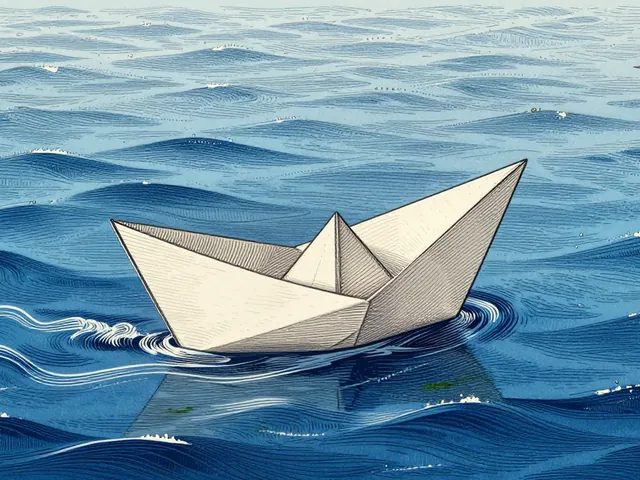
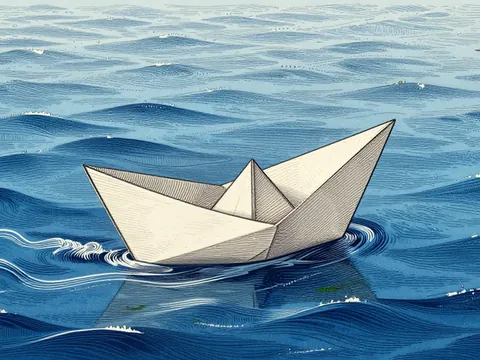
fix(portal): arreglos de la revisión del barco a la 19
enviado.webp a 480×360 (el doble de lo que se muestra, 38 KB en vez de
68), la imagen de la cabecera ilustrada vuelve a pedirse con prioridad
alta, docs/marca.md apunta al commit que quitó el fondo por estado y la
bitácora dice que el cambio lleva código. Lo leve (borrar una imagen
publicada unas horas, capturas) queda en «Pendiente». Comprobado con
capturas en móvil: cabecera de IG en celeste con isobatas y el barco en
«Mensaje preparado».

Check: npm run check en verde.

Siguiente: marca de revisión y paso a la rama de trabajo
Claude-Session: https://claude.ai/code/session_01VdeHmCrjjWWH5wtRhH3LE6

diff --git a/src/pages/Proyecto.tsx b/src/pages/Proyecto.tsx
@@ -195,7 +195,7 @@ function FichaProyecto({ p }: { p: TipoProyecto }) {
     <article className="proyecto" style={{ '--acento-proyecto': p.acento } as CSSProperties}>
       <header className={`proyecto-cabecera cabecera-${modoCabecera}`}>
         {modoCabecera === 'ilustracion' && (
-          <img className="proyecto-fondo" src={ruta(p.portada.src)} alt="" />
+          <img className="proyecto-fondo" src={ruta(p.portada.src)} alt="" fetchPriority="high" />
         )}
         {modoCabecera !== 'ilustracion' && (
           <img

diff --git a/src/components/Formulario.tsx b/src/components/Formulario.tsx
@@ -107,8 +107,8 @@ export function PaginaFormulario({ titulo, intro, ilustracion, componer, childre
               className="formulario-listo-imagen"
               src={ruta('marca/enviado.webp')}
               alt=""
-              width={640}
-              height={480}
+              width={480}
+              height={360}
             />
             <h2>
               <Check size={20} /> {t('form.listo.titulo')}

diff --git a/docs/handoff.md b/docs/handoff.md
@@ -10,7 +10,7 @@ Se actualiza en cada commit. Reglas en [`CLAUDE.md`](../CLAUDE.md).
 | **Rama de trabajo** | `claude/galivelop-dev-portal-1h89ci` (la que publica la tarea semanal); esta sesión, `ccr-5c066d81-ndsd13` (desde `main`, 2026-11-11) |
 | **Tarea en curso** | Recursos de imagen de `docs/marca.md` al día con la hoja vigente del generador (`galivelop-image-generator`, `docs/marcas/portal/hoja.md`, «Identidad vigente») y repaso de dónde se usa cada imagen |
 | **Siguiente paso** | La persona decide las cuatro «Dudas» de los recursos de imagen de `docs/marca.md` (dos registros, acentos de producto, versión oscura de los grabados, engranaje de Developer); luego (a) de «Repaso de toda la web» en «Pendiente» |
-| **En `main`** | **Imágenes del generador en la web (06, 10, 13, 15, 18, 19)** (PR #2, 6f44c27, 2026-11-11, autorizada por la persona en la otra sesión) sobre la rama `ccr-47a38edd-v566du` y novedad de Tarkor (48827b1). Lo anterior, en «Hecho» y en `git log origin/main`. https://zeldris.github.io/Portal-Galivelop/ |
+| **En `main`** | **Imágenes del generador en la web (06, 10, 13, 15, 18, 19)** (PR #2, 6f44c27, 2026-11-11, autorizada por la persona en la otra sesión), encima de 48827b1 (rama `ccr-47a38edd-v566du` y novedad de Tarkor). Lo anterior, en «Hecho» y en `git log origin/main`. https://zeldris.github.io/Portal-Galivelop/ |
 | **Tests** | `npm run check`: tsc 0 errores, `prettier --check` de `src/`, vitest 193/193 (21 archivos) y `tools/qa/tests/test-ganchos.sh`. `npm run build` correcto (42 páginas estáticas, sitemap, robots y llms) |
 
 ### Para la próxima publicación
@@ -25,8 +25,9 @@ Aquí se apunta lo que está en la rama de trabajo y aún no en `main`.
   para recortar, versión oscura, modelo y perfiles, motivos nuevos por recurso, la 13 pasa a `/equipo` y la 14 queda sin
   uso, y cuatro dudas para la persona. El barco de papel que llegó como portada de
   desarrollo (y salía de fondo en IG y workflow) pasa a ser la 19, «Mensaje preparado», como dice la hoja (la persona,
-  2026-11-11); las fichas de color vuelven a celeste con isobatas hasta la portada 06 de editor. Repaso de uso: cada imagen entregada se ve donde dice «Entregados»; las `og` por
-  idioma, el JSON-LD, el favicon y las isobatas, bien en las 42 páginas. Solo documentación.
+  2026-11-11); las fichas de color vuelven a celeste con isobatas hasta la portada 06 de editor. **Lleva código**
+  (`Proyecto.tsx`, `global.css`, `Formulario.tsx`): revisado con `/code-review` (2026-11-11) y con su marca. Repaso de uso: cada imagen entregada se ve donde dice «Entregados»; las `og` por
+  idioma, el JSON-LD, el favicon y las isobatas, bien en las 42 páginas.
 
 ## Hecho
 
@@ -86,6 +87,8 @@ Aquí se apunta lo que está en la rama de trabajo y aún no en `main`.
 
 
 ## Pendiente
+
+- **Leves de la revisión del barco a la 19** (2026-11-11, no se vuelven a revisar en este cambio): `portada-desarrollo.webp` se borra aunque estuvo publicada unas horas (solo era fondo de cabecera, no una ruta); sin capturas antes/después del cambio de cabecera de IG y workflow (vuelven a la cabecera de color que ya tenían antes de la PR #2).
 
 - **Leves de la revisión de las imágenes del generador** (2026-11-11, no se vuelven a revisar en este cambio): `cabecera-equipo.webp` no tiene `-mini` con `srcset` para el móvil; el celeste con isobatas de las tarjetas próximas repite reglas de `.proyecto-isobatas`; las ilustraciones sobre papel (10, 18) no tienen versión oscura.
 

diff --git a/docs/marca.md b/docs/marca.md
@@ -121,13 +121,13 @@ La vista previa (`og`) de un proyecto es siempre `tools/og/fuentes/<slug>/og-fue
 | 13 | 2026-11-11 | `public/marca/cabecera-equipo.webp` (1600×500) | Arriba de `/equipo` (`/productos` ya redirige allí, ADR 0004) |
 | 15 (voz) | 2026-11-11 | `public/proyectos/galivelop-voice-generator/proxima.webp` (720×405, recortado el margen de papel) | `imagen` de su entrada en `proximamente.json`; las entradas sin imagen muestran celeste plano con isobatas |
 | 18 | 2026-11-11 | `public/marca/no-encontrado.webp` (900×600) | Página 404 (sustituye al monograma) |
-| 19 | 2026-11-11 | `public/marca/enviado.webp` (640×480, recorte 4:3 del barco de papel grabado sobre el mar) | «Mensaje preparado» de `/participa/proponer` y `/participa/unirse`. El barco llegó como `portada-desarrollo.webp` y se ponía de fondo en las fichas de color en desarrollo (IG y workflow); la hoja lo reserva para la 19, así que se movió aquí (2026-11-11) |
+| 19 | 2026-11-11 | `public/marca/enviado.webp` (480×360, el doble de lo que se muestra; recorte 4:3 del barco de papel grabado sobre el mar) | «Mensaje preparado» de `/participa/proponer` y `/participa/unirse`. El barco llegó como `portada-desarrollo.webp` y se ponía de fondo en las fichas de color en desarrollo (IG y workflow); la hoja lo reserva para la 19, así que se movió aquí (2026-11-11) |
 
 Las imágenes llegan a `src/img/` (fuera de git) y se convierten aquí con `cwebp -q 80`. Las de papel (10, 18) aún no
 tienen versión para el tema oscuro: se muestran enmarcadas tal cual. Faltan, entre las que ya tienen sitio en la web: la
 15 de Developer (su tarjeta muestra celeste con isobatas) y las tres portadas 6 (ventana de editor sobre el mar); hasta
 que llegue la de desarrollo, las fichas de color (IG y workflow) muestran celeste con isobatas. Para ponerla: el fondo
-velado por estado de `Proyecto.tsx` y `.cabecera-velada` que se quitaron en este cambio (ver su `git log`).
+velado por estado de `Proyecto.tsx` y `.cabecera-velada` que se quitaron en 88354fb (`git show 88354fb -- src/pages/Proyecto.tsx src/estilos/global.css`).
 
 ### Cómo pedirlas
 
